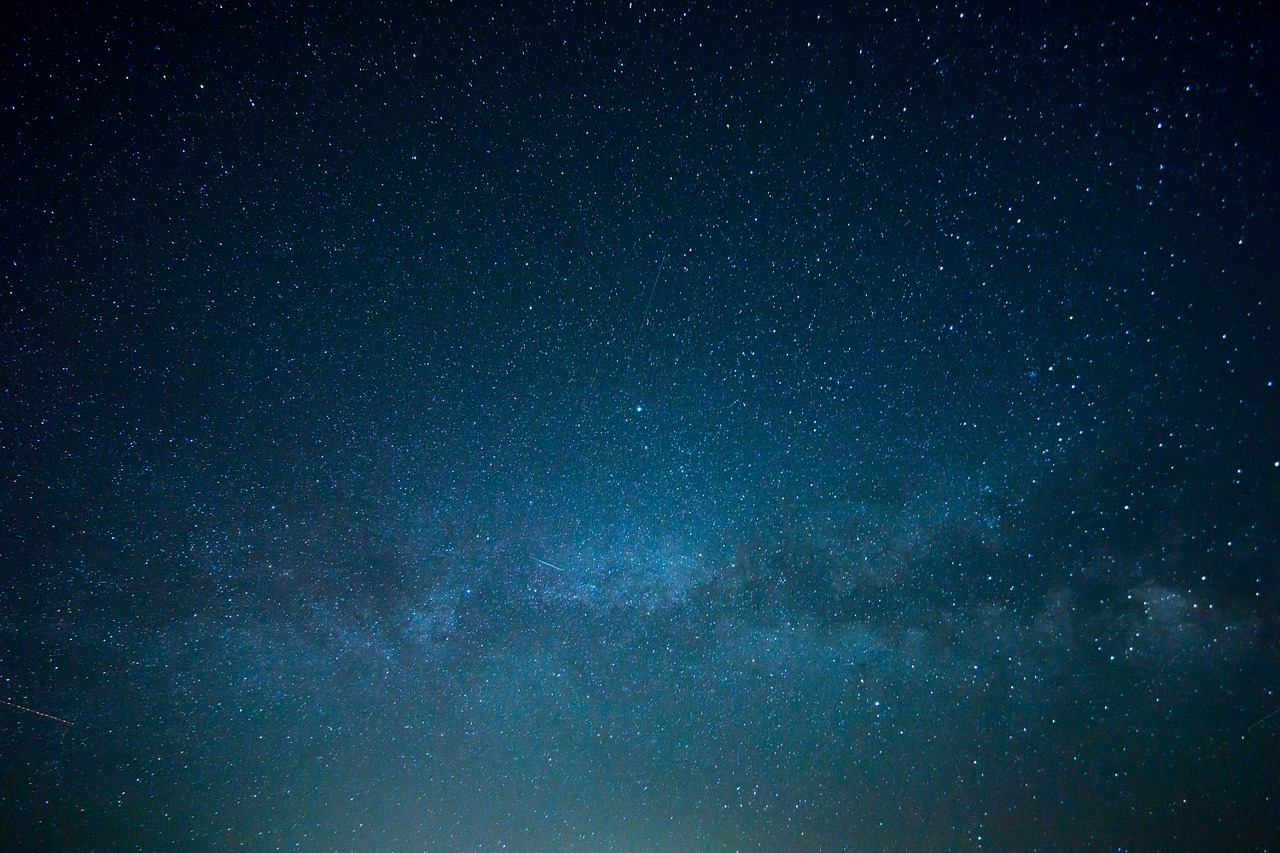
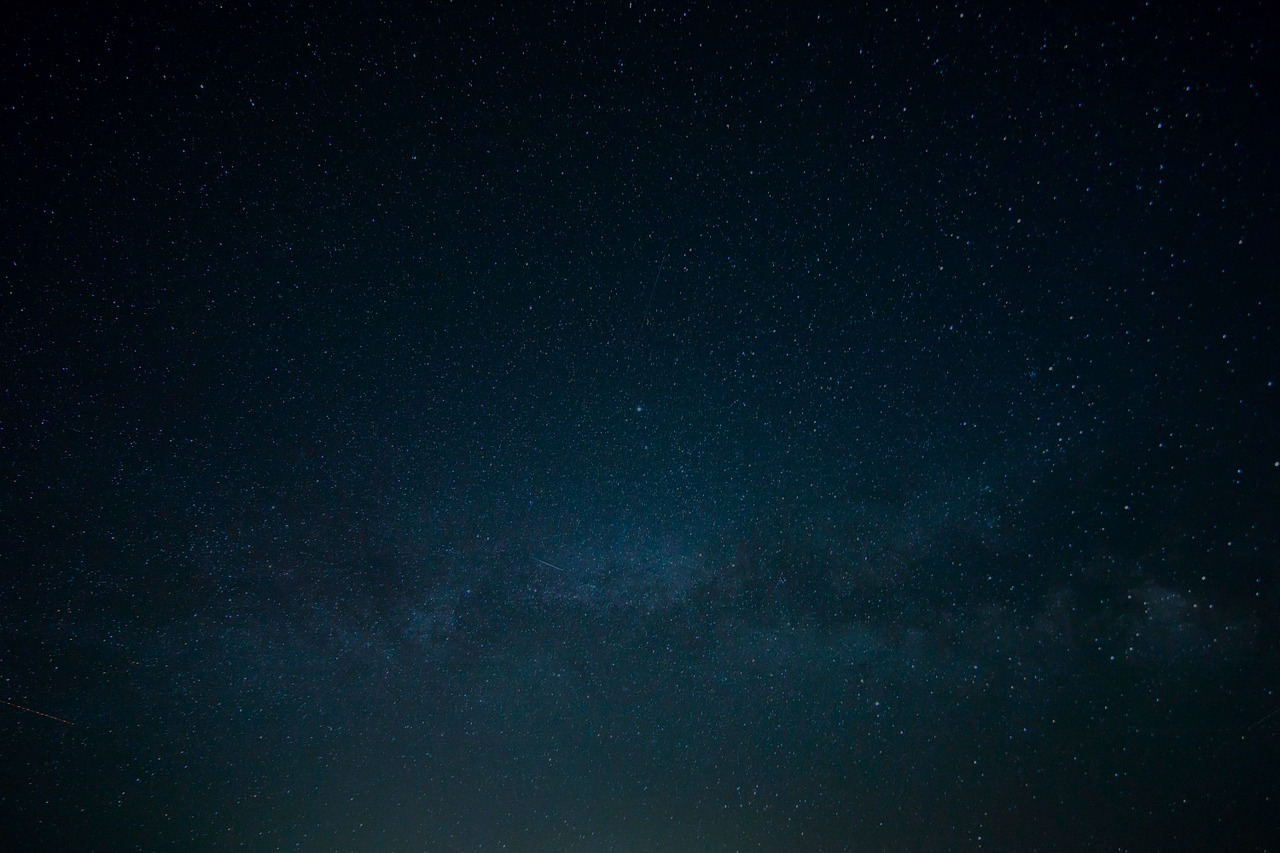
navigation cercles ok

diff --git a/app/index.html b/app/index.html
@@ -6,6 +6,7 @@
     <link rel="stylesheet" href="bower_components/bootstrap/dist/css/bootstrap.css"/>
     <script src="https://use.fontawesome.com/59c390bf14.js"></script>
     <link rel="stylesheet" href="app.css"/>
+    <script src="mimic/mimic.js"> </script>
     <script src="bower_components/angular/angular.js"></script>
     <script src="bower_components/angular-route/angular-route.js"></script>
     <script src="bower_components/angular-resource/angular-resource.js"></script>
@@ -13,6 +14,18 @@
     <link rel="stylesheet" href="bower_components/ngModal/dist/ng-modal.css"/>
     <script src="app.module.js"></script>
     <script src="app.config.js"></script>
+
+    <script src="infrastructures/infrastructures.module.js"></script>
+    <script src="infrastructures/infrastructures.component.js"></script>
+    <script src="infrastructures/info-infrastructure/info-infrastructure.module.js"></script>
+    <script src="infrastructures/info-infrastructure/info-infrastructure.component.js"></script>
+    <script src="infrastructures/info-technologie/info-technologie.module.js"></script>
+    <script src="infrastructures/info-technologie/info-technologie.component.js"></script>
+    <script src="infrastructures/info-technologie/cercles-niveau/cercles-niveau.module.js"></script>
+    <script src="infrastructures/info-technologie/cercles-niveau/cercles-niveau.component.js"></script>
+
+    <script src="info-eleve/info-eleve.module.js"></script>
+    <script src="info-eleve/info-eleve.component.js"></script>
 
     <script src="accueil/accueil.module.js"></script>
     <script src="accueil/accueil-owned.component.js"></script>
@@ -73,10 +86,10 @@
             <button onclick="document.getElementById('slider').classList.toggle('closed');">Toggle slider</button>
         </div>
 
-        <div class="col-xs-3">
+        <!--div class="col-xs-3">
             <volet-lateral></volet-lateral>
-        </div>
-        <div class="col-xs-9">
+        </div-->
+        <div class="col-xs-12 appli-content">
             <div ng-view class="view-frame"></div>
         </div>
     </div>

diff --git a/app/app.config.js b/app/app.config.js
@@ -9,17 +9,10 @@ config(['$locationProvider' ,'$routeProvider',
     function config($locationProvider, $routeProvider) {
         $locationProvider.hashPrefix('!');
 
-        $routeProvider.
-        when('/discover', {
-            template: "<accueil-discover></accueil-discover>"
-        }).
-        when('/my-techs', {
-            template: "<accueil-owned></accueil-owned>"
-        }).
-        when('/technology/:id', {
-            template: "<accueil-discover></accueil-discover> <modal-technologie></modal-technologie>"
-        }).
-        otherwise('/discover');
+        $routeProvider.when('/technologie/:nom/:niveau', {
+            template: "<infrastructures></infrastructures>"
+        }).        
+        otherwise('/technologie/eolienne/1');
     }
 ])
     .config(function(ngModalDefaultsProvider) {
@@ -35,7 +28,11 @@ config(['$locationProvider' ,'$routeProvider',
     ).config(['$routeProvider', '$httpProvider', function ($routeProvider, $httpProvider) {
     $httpProvider.defaults.withCredentials = true;
     $httpProvider.defaults.headers.common['Access-Control-Allow-Origin'] = 'http://localhost:8000';
-}])
+}]).config(function ($sceDelegateProvider) {
+    $sceDelegateProvider.resourceUrlWhitelist([
+        'self'   // trust all resources from the same origin
+    ]);
+});
 
 
 /*

diff --git a/app/accueil/accueil.template.html b/app/accueil/accueil.template.html
@@ -4,6 +4,7 @@
     <div class="row">
         <div class="col-sm-12 technologies-bg">
             <div class="row">
+                {{$ctrl.test}}bouboub
                 <ul class="nav nav-tabs techs-tabs">
                     <li role="presentation" ng-class="{active: $ctrl.tab == $ctrl.tab_name.DISCOVER}"><a href="#!/{{$ctrl.tab_name.DISCOVER}}">Technologies à découvrir</a></li>
                     <li role="presentation" ng-class="{active: $ctrl.tab == $ctrl.tab_name.OWNED}"><a href="#!/{{$ctrl.tab_name.OWNED}}">Mes technologies</a></li>

diff --git a/app/accueil/accueil-discover.component.js b/app/accueil/accueil-discover.component.js
@@ -8,8 +8,12 @@ angular.
 module('accueil').
 component('accueilDiscover', {
     templateUrl: 'accueil/accueil.template.html',
+    bindings: {
+        test:'@'
+    },
     controller: function AccueilDiscoverController(TAB_NAME) {
     	var self = this;
+        console.log(this.test);
         this.tab = TAB_NAME.DISCOVER;
         this.tab_name = TAB_NAME; //injecting constant in view
         this.techs = [{ id : '3'},

diff --git a/app/app.css b/app/app.css
@@ -4,9 +4,19 @@
     src: url("assets/nasalization/nasalization-rg.ttf");
 }
 
-/*body {
-    font-family: "Nasalization Rg";
-}*/
+body {
+    background-image: url("../assets/img/ciel.jpg");
+    height: 100vh;
+}
+
+.col-centered{
+    float: none;
+    margin: 0 auto;
+}
+
+.appli-content {
+    color: white;
+}
 
 /* Opening door for connexion */
 .slider {

diff --git a/app/app.module.js b/app/app.module.js
@@ -12,5 +12,7 @@ angular.module('poleRecherche', [
     'voletLateral',
     'modalTechnologie',
     'accueil',
-    'ngModal'
+    'ngModal',
+    'infrastructures',
+    'infoEleve'
 ]);
